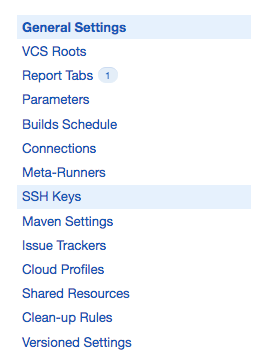
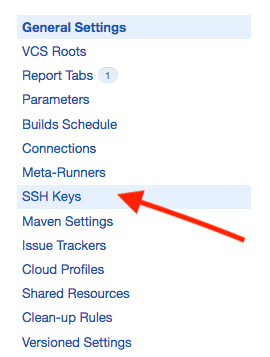
Working on new post

Changed region(s): [[0.4148, 0.5238, 0.9185, 0.6779]]

diff --git a/__drafts/teamcity-for-ios-project.md b/__drafts/teamcity-for-ios-project.md
@@ -17,7 +17,7 @@ Hope you will like it!
 Firstly, you need to go to page where your TeamCity is hosted. After log-in, go to the Administration Page, click `Projects` tab in `Project-related Settings` section and click `Create project`
 
 ![project settings](./teamcity-for-ios-project/create_project_step1.png)
-
+ 
 after that you should see configuration screen for Version Control that is used in your project.
 
 ![create project version control](./teamcity-for-ios-project/create_project.png)
@@ -40,15 +40,71 @@ I this post I will show you how to configure it with upload SSH key.
 
 ### Generate new SSH key
 
+*If you haven't heard about generating SSH keys, or you don't know what SSH keys really are. Check [this link](https://help.github.com/articles/generating-a-new-ssh-key-and-adding-it-to-the-ssh-agent/)*
+
 To generate new SSH keys you can use terminal command:
 
 ```
 ssh-keygen -t rsa
 ```
 
+provide a name for new key, and optional passphrase, then in directory in which you ran `ssh-keygen -t rsa` command you should see two keys. One public with `.pub` extension, and second - private.
+The public one will be used in your repository on github/bitbucket. The private key will be used in TeamCity service. 
+
+### Use generated key in TeamCity
+
+Go to already created project, settings page and click `VCS SSH Keys` tab.
+
+![ssh section in TeamCity](./teamcity-for-ios-project/ssh_section.png)
 
 
-So, go to already created project, settings and click `VCS Roots` tab.
+Click on `Upload SSH Key`. After that you should see a pop-up window which allows you to upload the previously created SSH Key.
+*Please keep in mind to upload a private part of your key, without `pub` extension*. If you choose correctly, click save and you should see screen like this:
 
-![create project version control](./teamcity-for-ios-project/vcs_root_section.png)
+
+![uploaded ssh key](./teamcity-for-ios-project/ssh_uploaded_key.png)
+
+As you can see in `Usage` tab, the key is not used in the configuration yet.
+In order to use it - you have to go through the next steps...
+
+
+### Configure VCS root
+
+Go to already created project, settings page and click `VCS Roots` tab.
+
+![create project version control](./teamcity-for-ios-project/vcs_root_section.png) // CHANGE IMAGE. SHOW SSH Keys(1) and say something about it
+
+//
+
+
+## Step 3: Create build configuration
+create manually, attach root
+## Step 4: Configure build steps for configuration
+add 2 steps, install dependencies, run fastalne, 
+## Step 5: Triggers
+VCS trigger, scheduled trigger and say something more about it
+## Step 6: Failuire Conditions
+60 minutes failuire conditions, and some more
+## Step 7: Build Features
+XML Report - unit tests, Rvm 
+## Step 8: Parameters
+fastlane password, match password, xcodepath, build number
+## Step 9: Agent machine
+How to configure agent?
+Link to Team City docs,
+Go to Agents -> Install via ZIP
+Authorize agent
+## Step 10: Setup Agent requirements for build configuration
+select by jvm.os.name = MAC Os
+## Step 11: Ready for build - RUN!
+show screen with progress, build log, with all steps
+## Step 12: Artifacts!
+screen, path, text abut it
+
+
+
+
+
+
+
 
